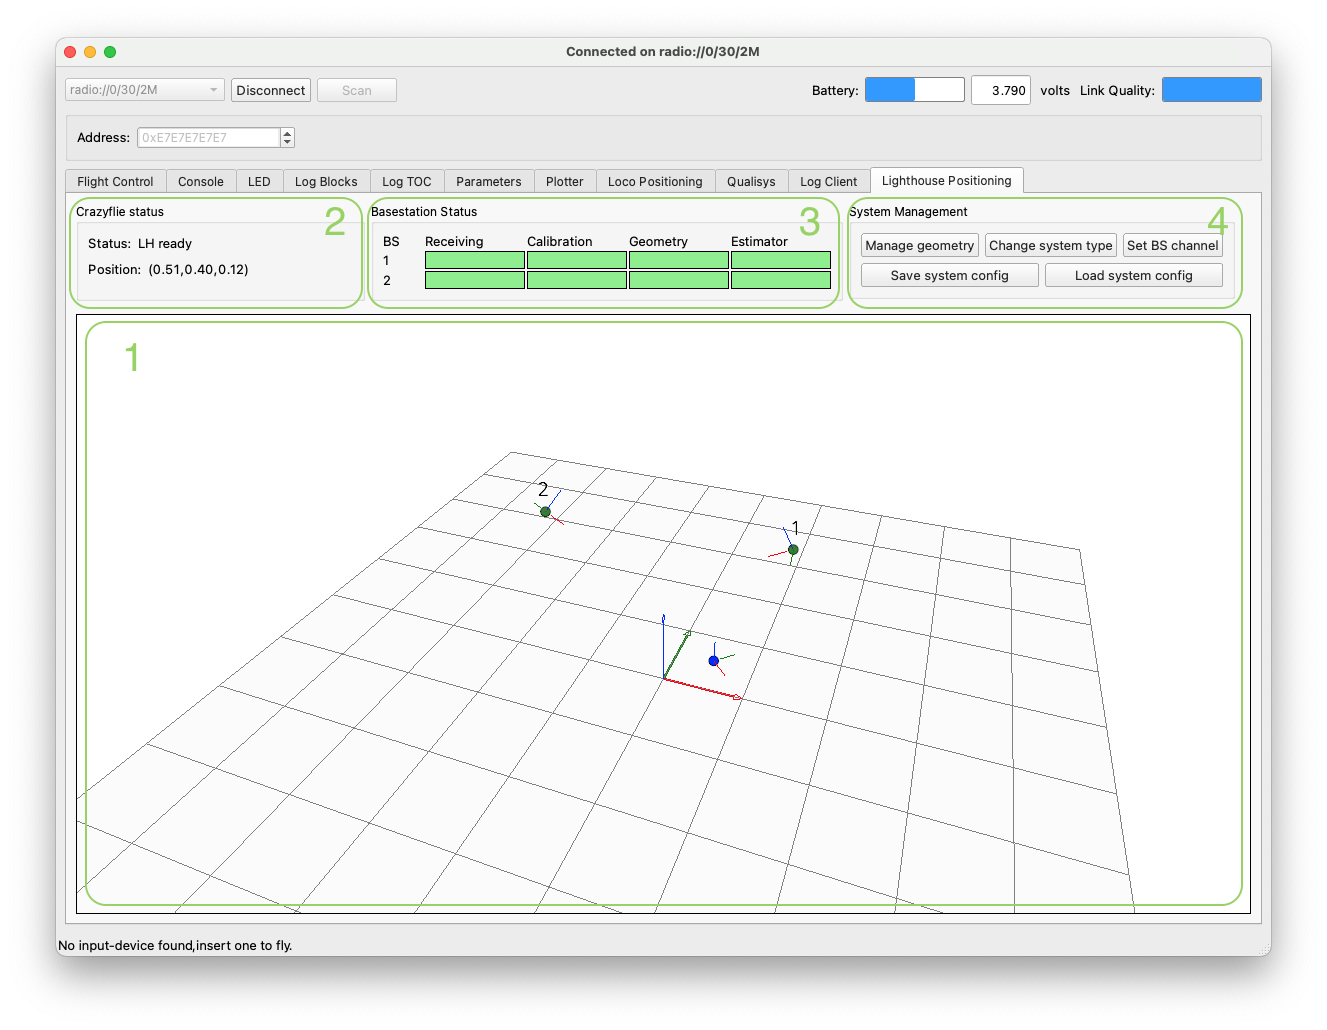
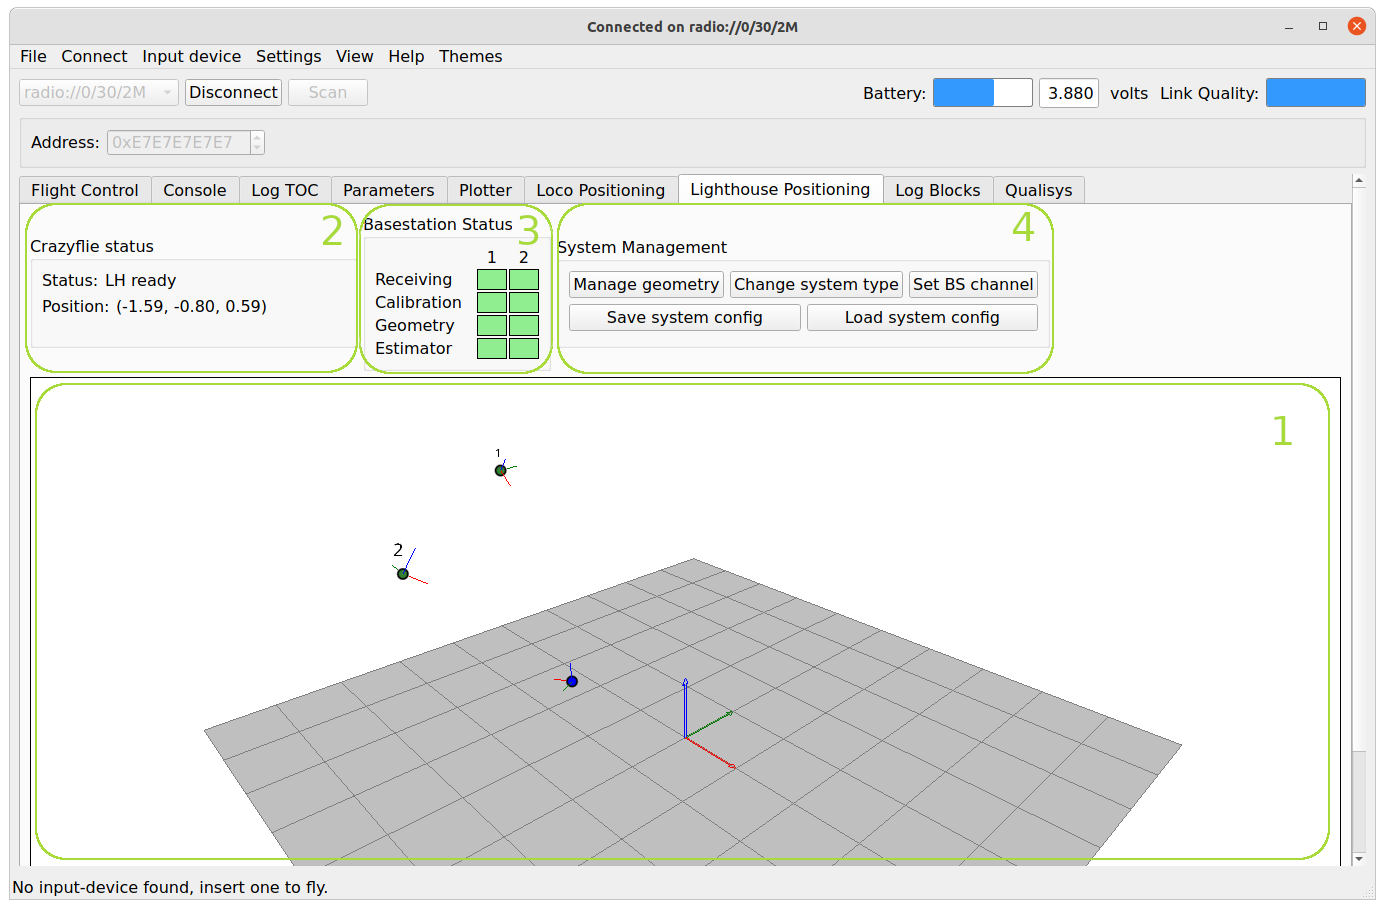
Updated documentaiton

diff --git a/docs/userguides/userguide_client/lighthouse_tab.md b/docs/userguides/userguide_client/lighthouse_tab.md
@@ -5,7 +5,8 @@ page_id: lighthouse_tab
 
 The Lighthouse Positioning tab shows information from the Lighthouse Positioning
 system when present. It is also used to configure and manage the system.
-For more information on how the Lighthouse system works, please see TODO
+For more information on how the Lighthouse system works, please see
+[the firmware documentation](https://www.bitcraze.io/documentation/repository/crazyflie-firmware/master/functional-areas/lighthouse/).
 
 ![cfclient positioning](/docs/images/cfclient_lh_main.png){:align-center width="700"}
 
@@ -35,7 +36,8 @@ The currently estimated position is displayed in the "Position" field.
 ### Base station status
 A detailed status of the base stations is indicated using colors in the grid. All
 four stages for a base station must be green for the data to be used in the position
-estimation process. When setting up the system work from left to right and make sure all the boxes to the left are green before you proceed to the next one.
+estimation process. When setting up the system, work from top to bottom and make sure all the boxes above are green
+before you proceed to the next one.
 
 1.  **Receiving** - green = light is received from the base station, red = no reception
 2.  **Calibration** - indicates if there is calibration data for the base station or not.
